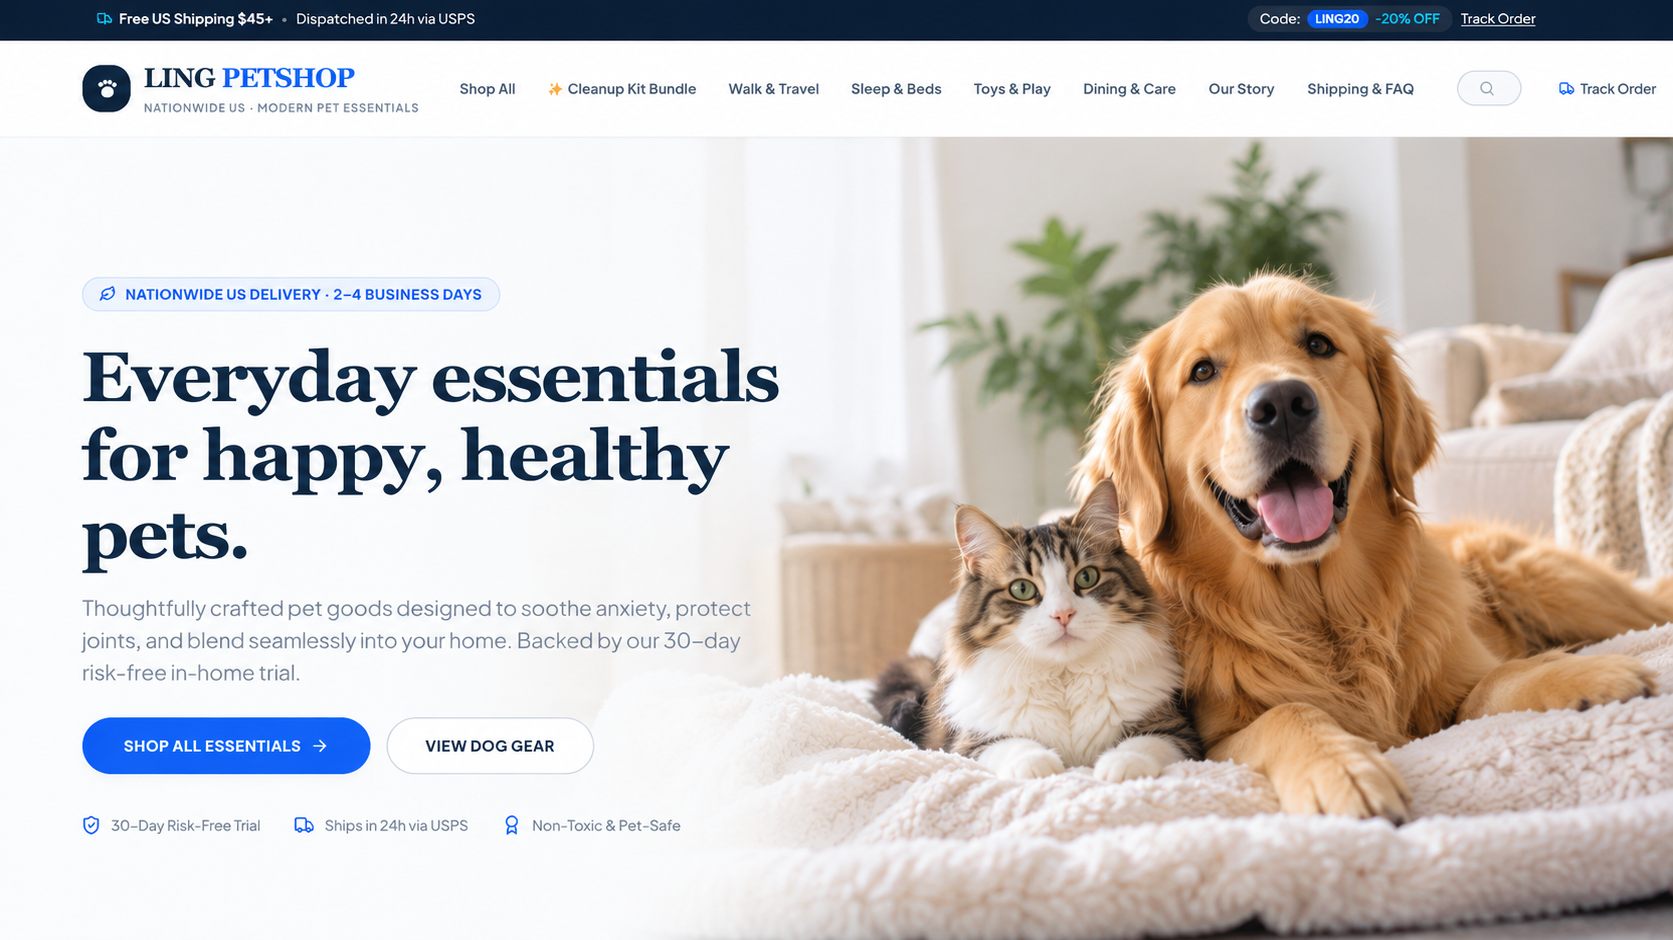
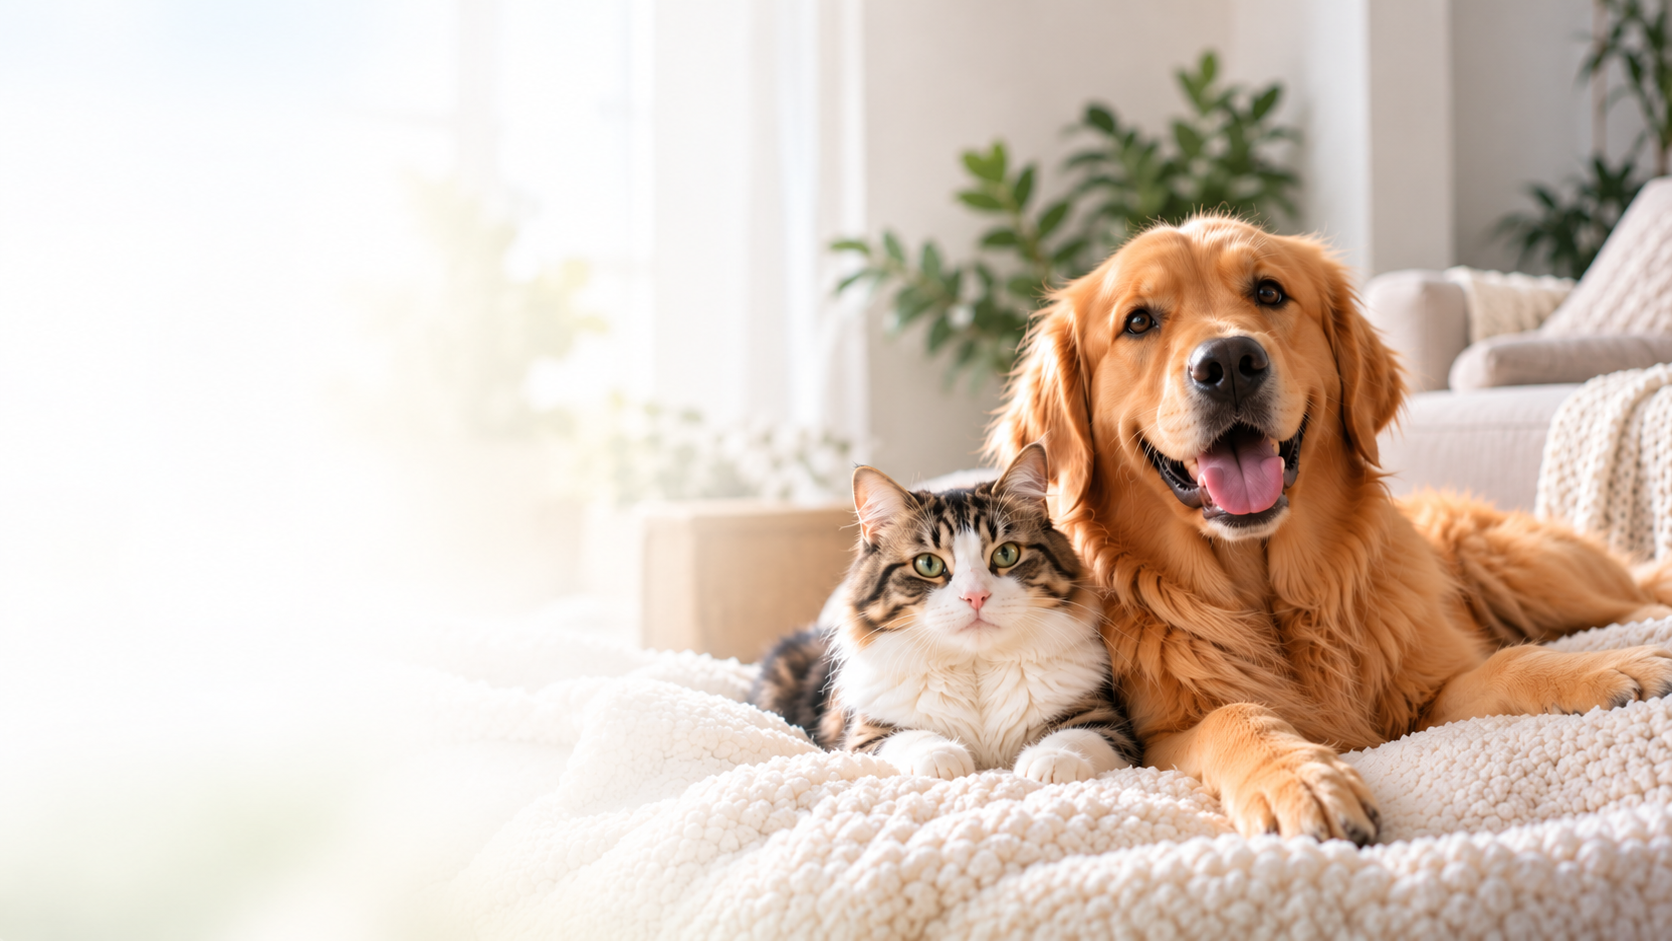
refactor(home): redesign hero section layout
Update the hero section to use a structured grid layout instead of full-bleed imagery, improving content alignment and readability.

diff --git a/src/pages/HomePage.tsx b/src/pages/HomePage.tsx
@@ -44,71 +44,71 @@ export const HomePage: React.FC<HomePageProps> = ({
 
   return (
     <div className="bg-white text-[#0F172A]">
-      {/* 1. Immersive Full-Width Panoramic Hero Section (Fable Pets Style) */}
-      <section className="relative overflow-hidden w-full min-h-[580px] sm:min-h-[620px] lg:min-h-[660px] flex items-center border-b border-[#E2E8F0] bg-[#F8FAFC]">
-        {/* Full-bleed Absolute Panoramic Background Image */}
-        <div
-          className="absolute inset-0 w-full h-full bg-no-repeat pointer-events-none"
-          style={{
-            backgroundImage: "url('/assets/hero_pets_panoramic.png')",
-            backgroundSize: 'cover',
-            backgroundPosition: 'right 45%',
-          }}
-        />
+      {/* 1. Hero Section with Attached Clean Artwork */}
+      <section className="relative overflow-hidden w-full border-b border-[#E2E8F0] bg-gradient-to-b from-[#F8FAFC] via-[#F8FAFC] to-white pt-10 pb-12 sm:pt-16 sm:pb-20 lg:py-20">
+        <div className="max-w-7xl mx-auto px-4 sm:px-6 lg:px-8">
+          <div className="grid grid-cols-1 lg:grid-cols-12 gap-8 lg:gap-12 items-center">
+            {/* Left Column: Real HTML Content */}
+            <div className="lg:col-span-6 space-y-6 text-center sm:text-left z-10">
+              <div className="inline-flex items-center gap-2 px-3.5 py-1.5 rounded-full bg-[#EFF6FF] border border-[#BFDBFE] text-[#2563EB] text-xs font-bold uppercase tracking-wider">
+                <Leaf size={14} />
+                <span>Nationwide US Delivery · 2–4 Business Days</span>
+              </div>
 
-        {/* Smooth White-to-Transparent Gradient Overlay:
-            Ensures text readability on the left while keeping the golden retriever & cat clearly visible on the right */}
-        <div className="absolute inset-0 bg-gradient-to-r from-white via-white/95 to-transparent sm:via-white/85 sm:to-white/10 lg:via-white/75 lg:to-transparent pointer-events-none w-full lg:w-[72%]" />
+              <h1 className="text-4xl sm:text-5xl lg:text-6xl font-extrabold text-[#0F2942] font-serif tracking-tight leading-[1.12]">
+                Everyday essentials for happy, healthy pets.
+              </h1>
 
-        {/* Mobile Contrast Gradient: Keeps pets visible while ensuring text is readable */}
-        <div className="absolute inset-0 bg-gradient-to-b from-white/90 via-white/55 to-white/90 sm:hidden pointer-events-none" />
+              <p className="text-base sm:text-lg text-[#475569] font-light leading-relaxed max-w-xl mx-auto sm:mx-0">
+                Thoughtfully crafted pet goods designed to soothe anxiety, protect joints, and blend seamlessly into your home. Backed by our 30-day risk-free in-home trial.
+              </p>
 
-        {/* Real HTML Content Layered Above Background */}
-        <div className="relative z-10 max-w-7xl mx-auto px-4 sm:px-6 lg:px-8 py-16 sm:py-20 lg:py-24 w-full">
-          <div className="max-w-xl lg:max-w-2xl space-y-6 text-center sm:text-left">
-            <div className="inline-flex items-center gap-2 px-3.5 py-1.5 rounded-full bg-[#EFF6FF] border border-[#BFDBFE] text-[#2563EB] text-xs font-bold uppercase tracking-wider backdrop-blur-xs">
-              <Leaf size={14} />
-              <span>Nationwide US Delivery · 2–4 Business Days</span>
+              <div className="pt-2 flex flex-col sm:flex-row items-center justify-center sm:justify-start gap-3.5">
+                <button
+                  onClick={() => onNavigateToShop('all')}
+                  className="w-full sm:w-auto px-8 py-4 rounded-full bg-[#2563EB] hover:bg-[#1D4ED8] text-white font-bold text-xs uppercase tracking-wider transition-all cursor-pointer shadow-lg hover:shadow-xl active:scale-98 flex items-center justify-center gap-2"
+                >
+                  <span>Shop All Essentials</span>
+                  <ArrowRight size={15} />
+                </button>
+
+                <button
+                  onClick={() => onNavigateToShop('Dogs')}
+                  className="w-full sm:w-auto px-6 py-4 rounded-full bg-white text-[#0F2942] border border-[#CBD5E1] hover:bg-[#F8FAFC] font-bold text-xs uppercase tracking-wider transition-all cursor-pointer shadow-xs"
+                >
+                  View Dog Gear
+                </button>
+              </div>
+
+              {/* Trust Callout Badges */}
+              <div className="pt-4 flex flex-wrap items-center justify-center sm:justify-start gap-6 text-xs text-[#475569]">
+                <div className="flex items-center gap-2">
+                  <ShieldCheck size={16} className="text-[#2563EB]" />
+                  <span className="font-medium">30-Day Risk-Free Trial</span>
+                </div>
+                <div className="flex items-center gap-2">
+                  <Truck size={16} className="text-[#2563EB]" />
+                  <span className="font-medium">Ships in 24h via USPS</span>
+                </div>
+                <div className="flex items-center gap-2">
+                  <Award size={16} className="text-[#2563EB]" />
+                  <span className="font-medium">Non-Toxic & Pet-Safe</span>
+                </div>
+              </div>
             </div>
 
-            <h1 className="text-4xl sm:text-5xl lg:text-6xl font-extrabold text-[#0F2942] font-serif tracking-tight leading-[1.12]">
-              Everyday essentials for happy, healthy pets.
-            </h1>
-
-            <p className="text-base sm:text-lg text-[#475569] font-light leading-relaxed max-w-xl mx-auto sm:mx-0">
-              Thoughtfully crafted pet goods designed to soothe anxiety, protect joints, and blend seamlessly into your home. Backed by our 30-day risk-free in-home trial.
-            </p>
-
-            <div className="pt-2 flex flex-col sm:flex-row items-center justify-center sm:justify-start gap-3.5">
-              <button
-                onClick={() => onNavigateToShop('all')}
-                className="w-full sm:w-auto px-8 py-4 rounded-full bg-[#2563EB] hover:bg-[#1D4ED8] text-white font-bold text-xs uppercase tracking-wider transition-all cursor-pointer shadow-lg hover:shadow-xl active:scale-98 flex items-center justify-center gap-2"
-              >
-                <span>Shop All Essentials</span>
-                <ArrowRight size={15} />
-              </button>
-
-              <button
-                onClick={() => onNavigateToShop('Dogs')}
-                className="w-full sm:w-auto px-6 py-4 rounded-full bg-white/90 hover:bg-white text-[#0F2942] border border-[#CBD5E1] font-bold text-xs uppercase tracking-wider transition-all cursor-pointer backdrop-blur-xs shadow-xs"
-              >
-                View Dog Gear
-              </button>
-            </div>
-
-            {/* Trust Callout Badges */}
-            <div className="pt-4 flex flex-wrap items-center justify-center sm:justify-start gap-6 text-xs text-[#475569]">
-              <div className="flex items-center gap-2 bg-white/60 sm:bg-transparent px-2.5 py-1 sm:p-0 rounded-full">
-                <ShieldCheck size={16} className="text-[#2563EB]" />
-                <span className="font-medium">30-Day Risk-Free Trial</span>
-              </div>
-              <div className="flex items-center gap-2 bg-white/60 sm:bg-transparent px-2.5 py-1 sm:p-0 rounded-full">
-                <Truck size={16} className="text-[#2563EB]" />
-                <span className="font-medium">Ships in 24h via USPS</span>
-              </div>
-              <div className="flex items-center gap-2 bg-white/60 sm:bg-transparent px-2.5 py-1 sm:p-0 rounded-full">
-                <Award size={16} className="text-[#2563EB]" />
-                <span className="font-medium">Non-Toxic & Pet-Safe</span>
+            {/* Right Column: Complete Clean Artwork (Golden Retriever & Cat) */}
+            <div className="lg:col-span-6 relative flex justify-center lg:justify-end items-center">
+              <div className="relative w-full max-w-2xl overflow-hidden">
+                <img
+                  src="/assets/hero_pets_cozy_harmony.png"
+                  alt="Golden retriever and companion cat in cozy home"
+                  className="w-full h-auto object-contain object-right max-h-[460px] sm:max-h-[520px] lg:max-h-[580px] rounded-2xl sm:rounded-3xl"
+                  loading="eager"
+                  fetchPriority="high"
+                />
+                {/* Subtle soft white gradient blend on the left edge only */}
+                <div className="absolute inset-y-0 left-0 w-16 sm:w-24 bg-gradient-to-r from-[#F8FAFC] via-[#F8FAFC]/50 to-transparent pointer-events-none" />
               </div>
             </div>
           </div>
